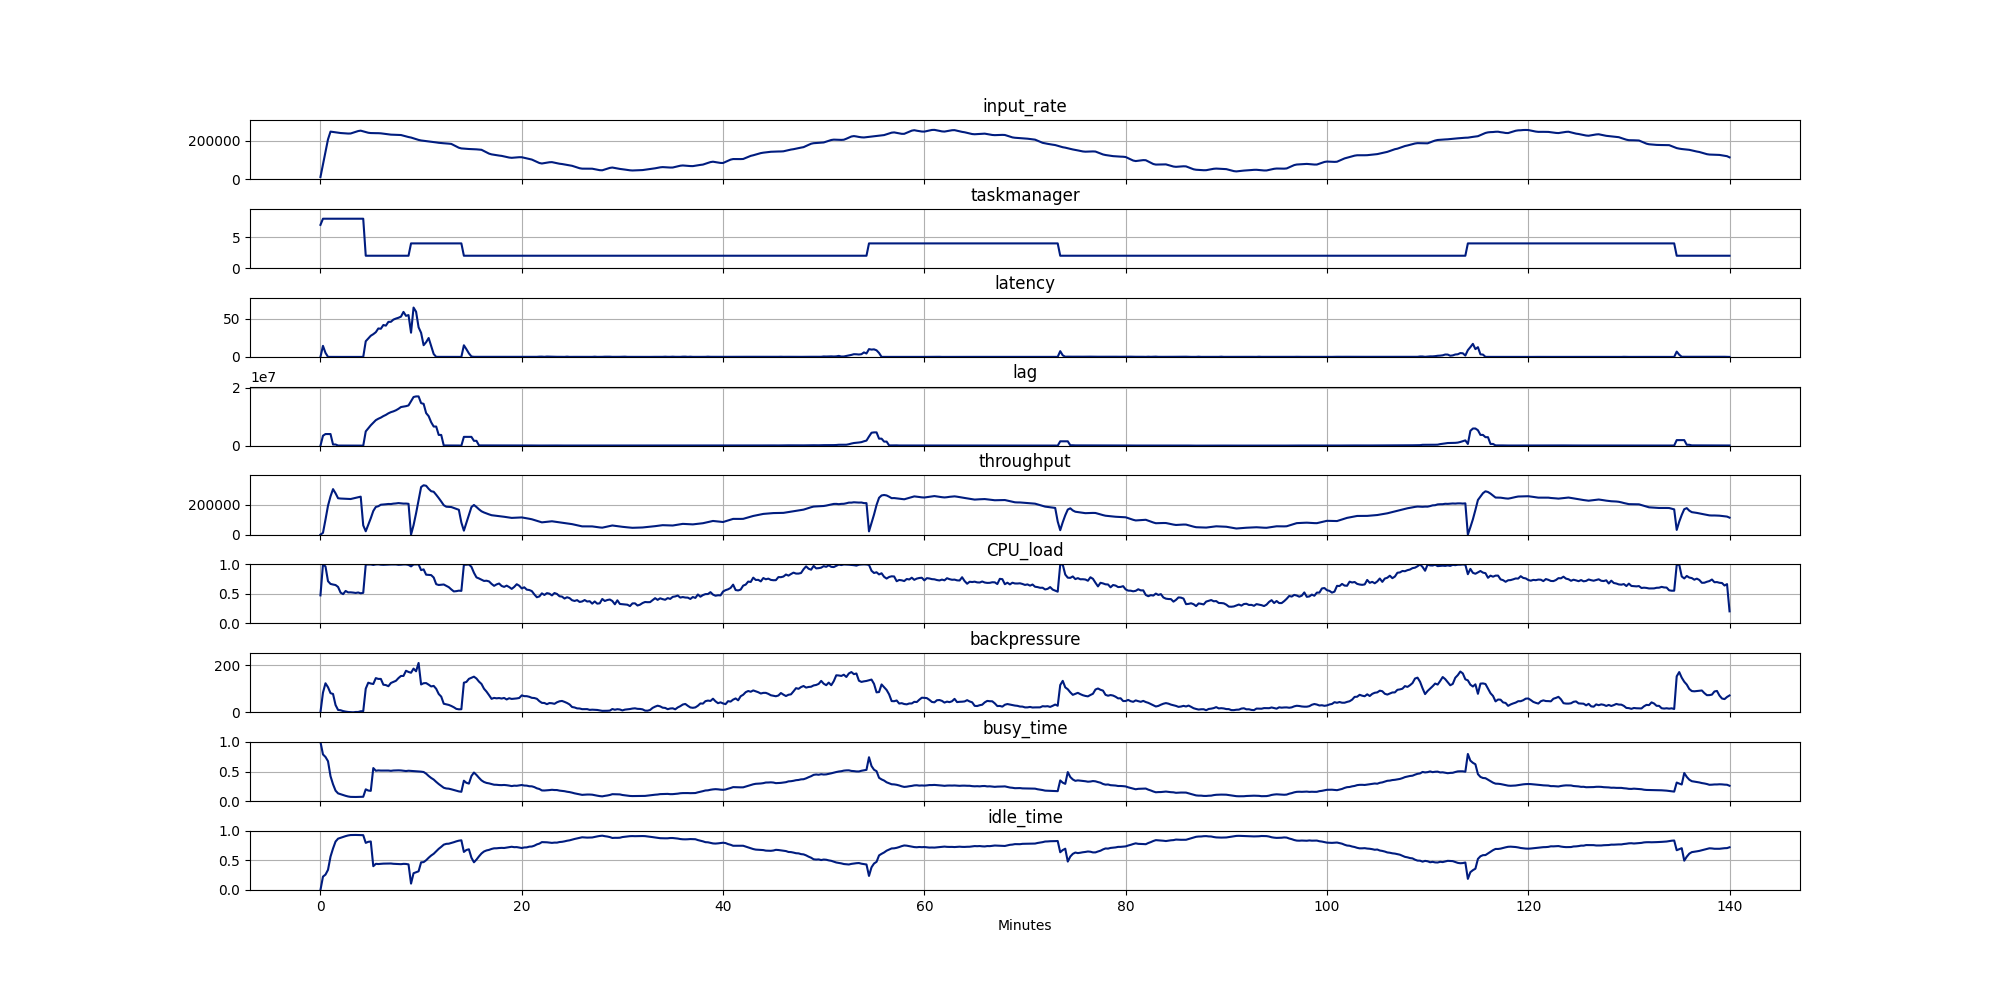
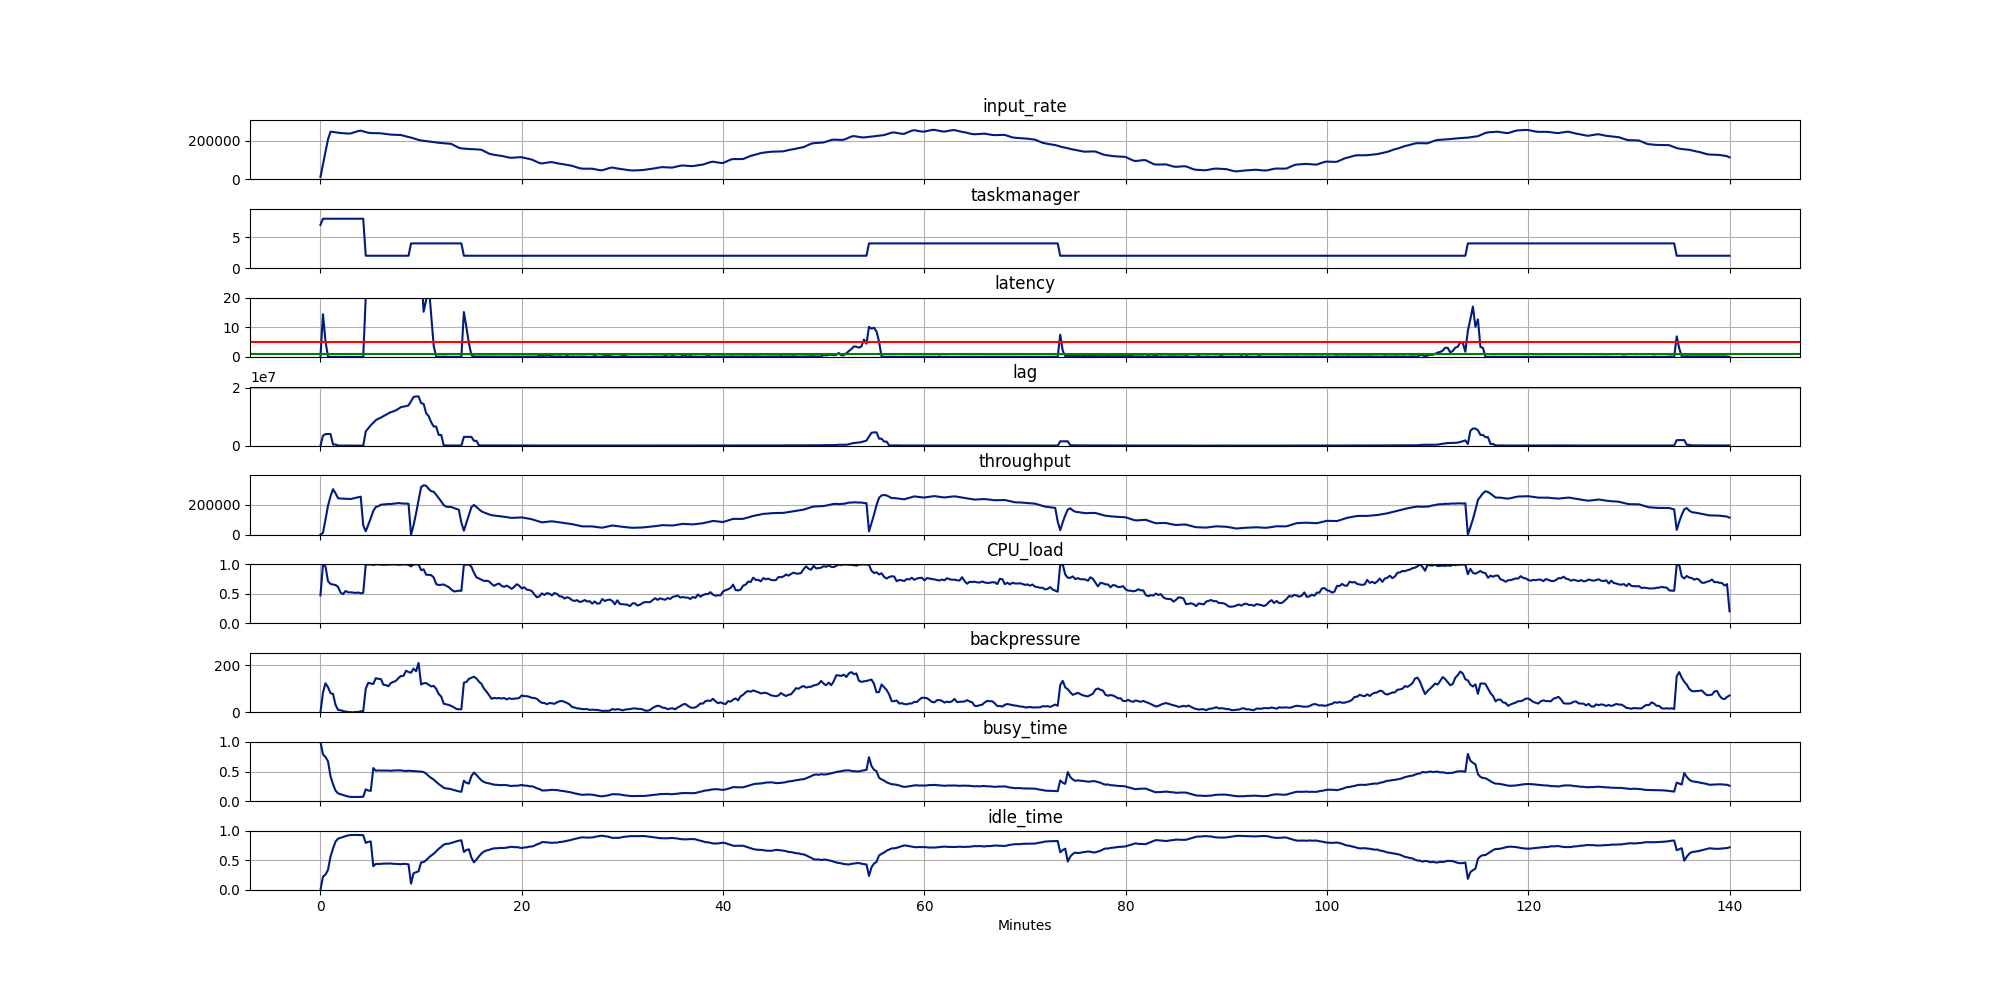
Update average metric printer and update graphs

Changed region(s): [[0.124, 0.31, 0.899, 0.372]]

diff --git a/data_processing/cmd_print_average_metrics.py b/data_processing/cmd_print_average_metrics.py
@@ -1,39 +1,20 @@
 import argparse
 
 from tabulate import tabulate
-
-from command_functions import includeAutoscalers, includeMetrics, includeQueries, getAutoscalers, getMetrics, \
-    getQueries, getDataFolder
-from DataClasses import ExperimentFile, Experiment
 from Plotting import getAverageMetrics, getTotalRescalingActions
+from ParameterProcessing import SingleFolderPlotParameters
 
 
-
-def printAverageData(source_folder: str, source_label: str, add_scaling_events: bool, queries: [str],
-                     autoscalers: [str], metrics: [str]):
-    """
-    Print average data of all experiments found in a folder with a specific source_label
-    :param source_folder: Source folder to search for experiments
-    :param source_label: Prefix of the experiment files
-    :param add_scaling_events: Also include total scaling events in metrics
-    :param queries: List of queries that the experiments is allowed to have evaluated
-    :param autoscalers: List of autoscalers that the experiments are allowed to have used
-    :param metrics: List of metrics to print their average value from
-    :return: None
-    """
-    data_folder = getDataFolder(source_folder)
-
-    experiments: [Experiment] = Experiment.getAllExperiments(queries, autoscalers, label=source_label)
-    experimentFiles: [ExperimentFile] = ExperimentFile.getAvailableExperimentFiles(data_folder, experiments,
-                                                                                   printingEnabled=True)
-    table = []
-    header_row = ["Experiment"] + metrics
+def printAverageData(parameters: SingleFolderPlotParameters, add_scaling_events):
+    experimentFiles = parameters.getExperimentFiles()
+    header_row = ["Experiment"] + parameters.getMetrics()
     if add_scaling_events:
         header_row.append("Scaling_events")
 
-    table.append(header_row)
+    table = [header_row]
     for experimentFile in experimentFiles:
-        results = getAverageMetrics(experimentFile, metrics)
+        results = getAverageMetrics(experimentFile, parameters.getMetrics())
+        # Round results to 3 decimal if smaller than 1, else to 1
         results = list(map(lambda v: round(v, 3) if v < 1 else round(v, 1), results))
         if add_scaling_events:
             scalingEvents = getTotalRescalingActions(experimentFile)
@@ -43,26 +24,29 @@ def printAverageData(source_folder: str, source_label: str, add_scaling_events: 
     print(tabulate(table))
 
 
-
 def parseArguments():
+    # Create SingleFolderPlotParameters without a result folder and thresholds_option
+    parameters: SingleFolderPlotParameters = SingleFolderPlotParameters(
+        default_result_folder_name="",
+        option_plot_thresholds=False,
+        option_metric_ranges=False,
+    )
+
+    # Parse arguments
     parser = argparse.ArgumentParser(description='Print averaged metrics')
-    parser.add_argument('source_directory', type=str,
-                        help="Directory in which datafiles can be found at src_dir/full-data")
-    parser.add_argument('source_label', default="", type=str, nargs="?")
+    parameters.includeArgumentsInParser(parser)
     parser.add_argument('--addscalingevents', action='store_true')
-    includeAutoscalers(parser)
-    includeMetrics(parser)
-    includeQueries(parser)
 
-    args = parser.parse_args()
-    src_directory = args.source_directory
-    src_label = args.source_label
-    add_scaling_events = args.addscalingevents
-    autoscalers = getAutoscalers(args)
-    metrics = getMetrics(args)
-    queries = getQueries(args)
+    # Fetch results from arguments
+    namespace = parser.parse_args()
+    parameters.fetchArgumentsFromNamespace(namespace)
+    add_scaling_events = namespace.addscalingevents
 
-    printAverageData(src_directory, src_label, add_scaling_events, queries, autoscalers, metrics)
+    # Call plot function
+    printAverageData(
+        parameters=parameters,
+        add_scaling_events=add_scaling_events
+    )
 
 
 if __name__ == "__main__":

diff --git a/data_processing/ParameterProcessing/SingleFolderPlotParameters.py b/data_processing/ParameterProcessing/SingleFolderPlotParameters.py
@@ -11,9 +11,13 @@ class SingleFolderPlotParameters(PlotParameters):
     __result_label = ""
     __plot_thresholds = False
 
+    __option_plot_thresholds = True
 
-    def __init__(self, default_result_folder_name: str):
+    def __init__(self, default_result_folder_name: str, option_plot_thresholds=True, option_metric_ranges=True):
+        super().__init__(option_metric_ranges=option_metric_ranges)
+        # If default_result_folder_name == "", both result_folder and result_label will not be added to parser
         self.__result_folder_name = default_result_folder_name
+        self.__option_plot_thresholds = option_plot_thresholds
 
     def setMainFolder(self, main_folder: str):
         if main_folder:
@@ -85,9 +89,13 @@ class SingleFolderPlotParameters(PlotParameters):
 
         includeMainFolderInParser(argumentParser)
         includeSourceLabelInParser(argumentParser)
-        includeResultFolderInParser(argumentParser)
-        includeResultLabelInParser(argumentParser)
-        includePlotThresholds(argumentParser)
+
+        if self.__result_folder_name:
+            includeResultFolderInParser(argumentParser)
+            includeResultLabelInParser(argumentParser)
+
+        if self.__option_plot_thresholds:
+            includePlotThresholds(argumentParser)
 
     def fetchArgumentsFromNamespace(self, namespace: argparse.Namespace):
         super().fetchArgumentsFromNamespace(namespace)
@@ -115,7 +123,11 @@ class SingleFolderPlotParameters(PlotParameters):
 
         fetchMainFolderFromNamespace(namespace)
         fetchSourceLabelFromNamespace(namespace)
-        fetchResultFolderFromNamespace(namespace)
-        fetchResultLabelFromNamespace(namespace)
-        fetchPlotThresholds(namespace)
+
+        if self.__result_folder_name:
+            fetchResultFolderFromNamespace(namespace)
+            fetchResultLabelFromNamespace(namespace)
+
+        if self.__option_plot_thresholds:
+            fetchPlotThresholds(namespace)
 

diff --git a/data_processing/ParameterProcessing/PlotParameters.py b/data_processing/ParameterProcessing/PlotParameters.py
@@ -13,6 +13,10 @@ class PlotParameters(StaticPlotFunctions):
 
     # Metric limits
     __metric_ranges: [Tuple[str, float, float]] = []
+    __option_metric_ranges = True
+
+    def __init__(self, option_metric_ranges=True):
+        self.__option_metric_ranges = option_metric_ranges
 
     def setQueries(self, queries: [str]):
         if queries:
@@ -63,7 +67,9 @@ class PlotParameters(StaticPlotFunctions):
         includeMetricsInParser(argumentParser)
         includeQueriesInParser(argumentParser)
         includeAutoscalersInParser(argumentParser)
-        includeMetricRangesInParser(argumentParser)
+
+        if self.__option_metric_ranges:
+            includeMetricRangesInParser(argumentParser)
 
     def fetchArgumentsFromNamespace(self, namespace: argparse.Namespace):
         def fetchMetricsFromNamespace(args: argparse.Namespace):
@@ -136,5 +142,7 @@ class PlotParameters(StaticPlotFunctions):
         fetchMetricsFromNamespace(namespace)
         fetchQueriesFromNamespace(namespace)
         fetchAutoscalersFromNamespace(namespace)
-        fetchMetricRanges(namespace)
+
+        if self.__option_metric_ranges:
+            fetchMetricRanges(namespace)
 

diff --git a/data_processing/Plotting/PlottingFunctionality.py b/data_processing/Plotting/PlottingFunctionality.py
@@ -3,7 +3,6 @@ from typing import Tuple
 import numpy as np
 import pandas as pd
 import matplotlib.pyplot as plt
-from adjustText import adjust_text
 from matplotlib.transforms import Bbox
 from DataClasses import ExperimentFile, Autoscalers, Metrics, Experiment
 import os.path
@@ -90,6 +89,16 @@ def addThresholdLine(ax, experiment: Experiment, metric: str, time_column, dataF
         if metric == Metrics.VARGA_RELATIVE_LAG_CHANGE_RATE:
             ax.axhline(1.0, color=color, linestyle='dotted', linewidth=2.5)
 
+    if experiment.autoscaler == Autoscalers.DS2_UPDATED:
+        # Underprovisioning
+        color = "red"
+        if metric == Metrics.LATENCY:
+            ax.axhline(5, color=color, linewidth=1.5)
+
+        # Overprovisioning
+        color = "green"
+        if metric == Metrics.LATENCY:
+            ax.axhline(1, color=color, linewidth=1.5)
 
 
 def getYrange(metricName: str, min_val, max_val, metric_ranges) -> Tuple[float, float]:

diff --git a/ds2/ds2_lag_reactive.py b/ds2/ds2_lag_reactive.py
@@ -9,7 +9,8 @@ import traceback
 from kubernetes import client, config, utils
 
 # extract metrics from prometheus query
-def extract_per_operator_metrics(metrics_json, include_subtask=False):
+def \
+        extract_per_operator_metrics(metrics_json, include_subtask=False):
     metrics = metrics_json.json()["data"]["result"]
     metrics_per_operator = {}
     for operator in metrics:

diff --git a/data_processing/README.md b/data_processing/README.md
@@ -254,17 +254,24 @@ python3 ./data_processing/run_experiments.py averages ./results/final_results/se
 ### Dhalion
 Dhalion 1
 ```
-python3 ./data_processing/cmd_indivual_experiment_plots.py ./results/final_results/redone/query-$QUERY rd --queries $QUERY --plot_thresholds --autoscaler dhalion -result_label config-dhalion-1 --metric_range lag 0 500000 --metric_range
-latency 0 4
+python3 ./data_processing/cmd_indivual_experiment_plots.py ./results/final_results/redone/query-$QUERY rd --queries $QUERY --plot_thresholds --autoscaler dhalion -result_label config-dhalion-1 --metric_range lag 0 300000 --metric_range latency 0 12
+python3 ./data_processing/cmd_autoscaler_configuration_plots.py ./results/final_results/redone/query-$QUERY rd --queries $QUERY --plot_thresholds --autoscaler dhalion -result_label config-dhalion-1 --metric_range lag 0 300000 --metric_range latency 0 20
+python3 ./data_processing/cmd_print_average_metrics.py ./results/final_results/redone/query-$QUERY rd --queries $QUERY --autoscalers dhalion --metrics latency taskmanager --addscalingevents
 ```
 HPA
 ```
 python3 ./data_processing/cmd_indivual_experiment_plots.py ./results/final_results/redone/query-$QUERY rd --queries $QUERY --autoscalers HPA --plot_thresholds --metric_range CPU_load 0 1
+
+python3 ./data_processing/cmd_print_average_metrics.py ./results/final_results/redone/query-$QUERY rd --queries $QUERY --autoscalers HPA --metrics latency taskmanager --addscalingevents
+
 ```
 Varga 1 and 2
 ```
 python3 ./data_processing/cmd_indivual_experiment_plots.py ./results/final_results/redone/query-$QUERY rd --queries $QUERY --autoscalers varga1 --plot_thresholds --metric_range lag 0 250000
 python3 ./data_processing/cmd_indivual_experiment_plots.py ./results/final_results/redone/query-$QUERY rd --queries $QUERY --autoscalers varga2 --plot_thresholds --metric_range lag 0 250000
+
+python3 ./data_processing/cmd_print_average_metrics.py ./results/final_results/redone/query-$QUERY rd --queries $QUERY --autoscalers varga2 --metrics latency taskmanager --addscalingevents
+
 ```
 
 DS2 original and updated
@@ -272,4 +279,8 @@ DS2 original and updated
 python3 ./data_processing/cmd_indivual_experiment_plots.py ./results/final_results/redone/query-$QUERY rd --queries $QUERY --autoscalers ds2-original --plot_thresholds
 python3 ./data_processing/cmd_indivual_experiment_plots.py ./results/final_results/redone/query-$QUERY rd --queries $QUERY --autoscalers ds2-updated --plot_thresholds
 
+python ./data_processing\cmd_indivual_experiment_plots.py ./results\final_results\redone\query-%QUERY% rd --autoscalers ds2-updated --queries %QUERY% --plot_thresholds
+
+python3 ./data_processing/cmd_print_average_metrics.py ./results/final_results/redone/query-$QUERY rd --queries $QUERY --autoscalers ds2-original --metrics latency taskmanager --addscalingevents
+python3 ./data_processing/cmd_print_average_metrics.py ./results/final_results/redone/query-$QUERY rd --queries $QUERY --autoscalers ds2-updated --metrics latency taskmanager --addscalingevents
 ```
